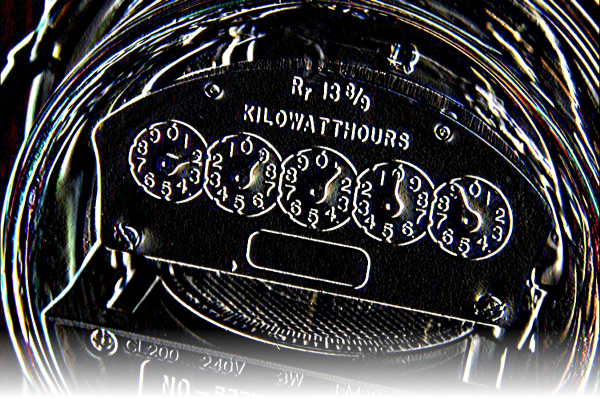
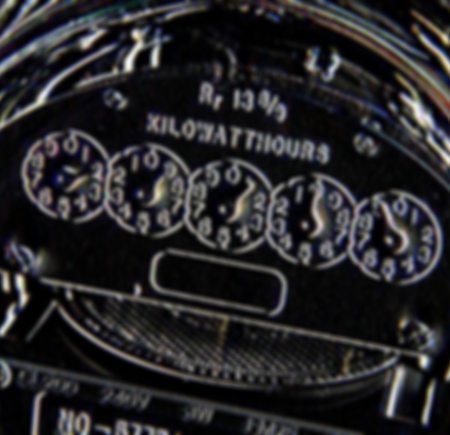
refactor: improve site theme (#38)
* chore: blurred background

* refactor: changed layount

* refactor: further improved background and layout

* chore: resized background image

diff --git a/_sass/hydeout/_layout.scss b/_sass/hydeout/_layout.scss
@@ -22,37 +22,43 @@
   we want the sidebar or header to stretch.
 */
 
-@media (min-width: 49rem) {
-  body {
-    background-image: linear-gradient(
-      to bottom, transparent, lighten($sidebar-bg-color, 7%), darken($sidebar-bg-color, 7%)), url("./images/edges.png");
-  }
-}
-
-@media (max-width: 49rem) {
-  body {
-	background: linear-gradient(
-      to right,
-	  lighten($sidebar-bg-color, 7%), lighten($sidebar-bg-color, 3.5%), $sidebar-bg-color, darken($sidebar-bg-color, 3.5%), transparent),
-	  url("./images/edges.png");  
-	background-position: center, top right;
-  }
-}
-
 
 body {
   color: rgba(255,255,255,.75);
   background-color: darken($sidebar-bg-color, 7%);
+  background-image: url("./images/edges.png");
   background-repeat: no-repeat;
-  background-size: cover, 35rem;
   display: flex;
   flex-direction: column;
   min-width: 100vw;
   min-height: 100vh;
 }
+
+@media (min-width: 49rem) {
+  body {
+	background-position: top left;
+	background-size: 100%;
+  }
+}
+
+@media (max-width: 49rem) {
+  body {
+	background-position: top center;
+	background-size: 49rem;
+  }
+}
+
+.opaque-layer {
+	background-color: rgba(0, 0, 0, 0.6);
+	position: absolute;
+	height: 100%;
+	width: 100%;
+	z-index: -1;
+}
+
 #sidebar {
   flex: 0 0 auto;
-  padding: $section-spacing;
+  padding: $section-spacing - 1rem;
   
   .site-title {
     font-family: "Abril Fatface", serif;

diff --git a/_layouts/default.html b/_layouts/default.html
@@ -4,14 +4,16 @@
   {% include head.html %}
   
   <body class="{{ page.layout }}{% if page.url == '/' %} home{% endif %}">
-  
+  <div class = "opaque-layer"></div>
   
     {% include sidebar.html %}
 
-    <main class="container">
+    <div class = "content" style = "width: 100%; margin: 0%; padding: 8px;">
+      <main class="container">
       {{ content }}
-    </main>
+      </main>
 
+    </div>
     {% include custom-foot.html %}
   </body>
 </html>
